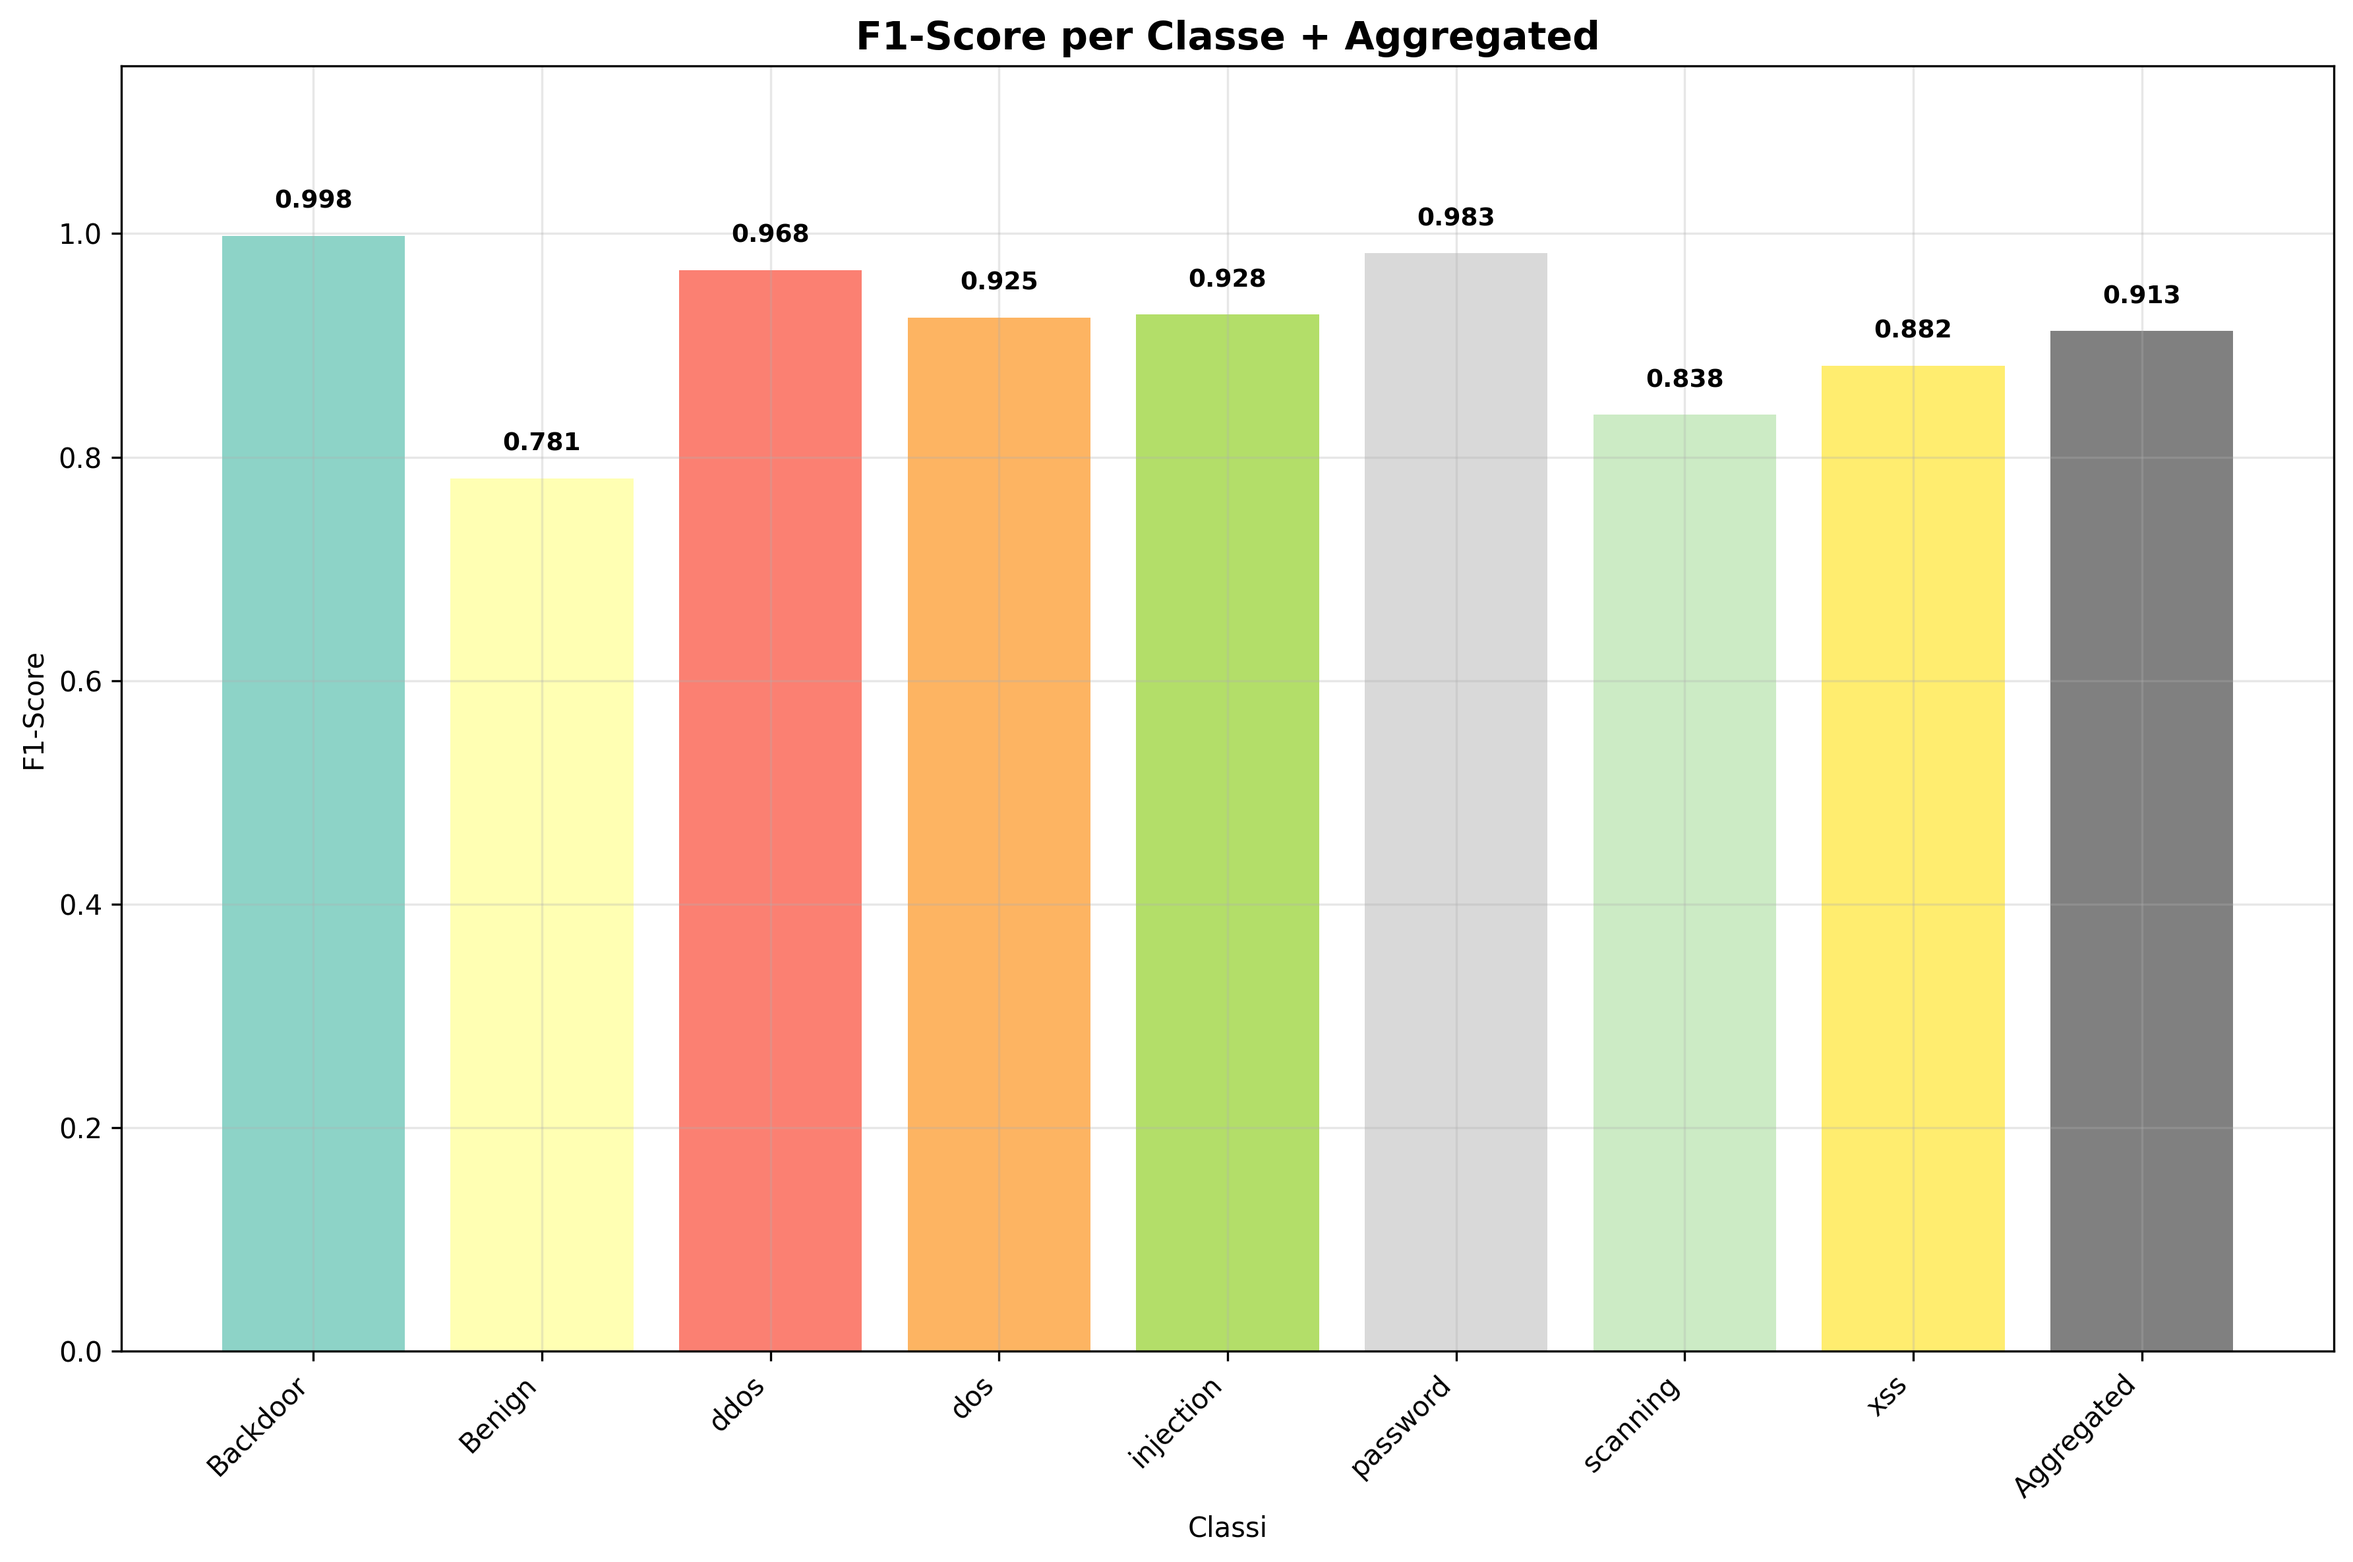
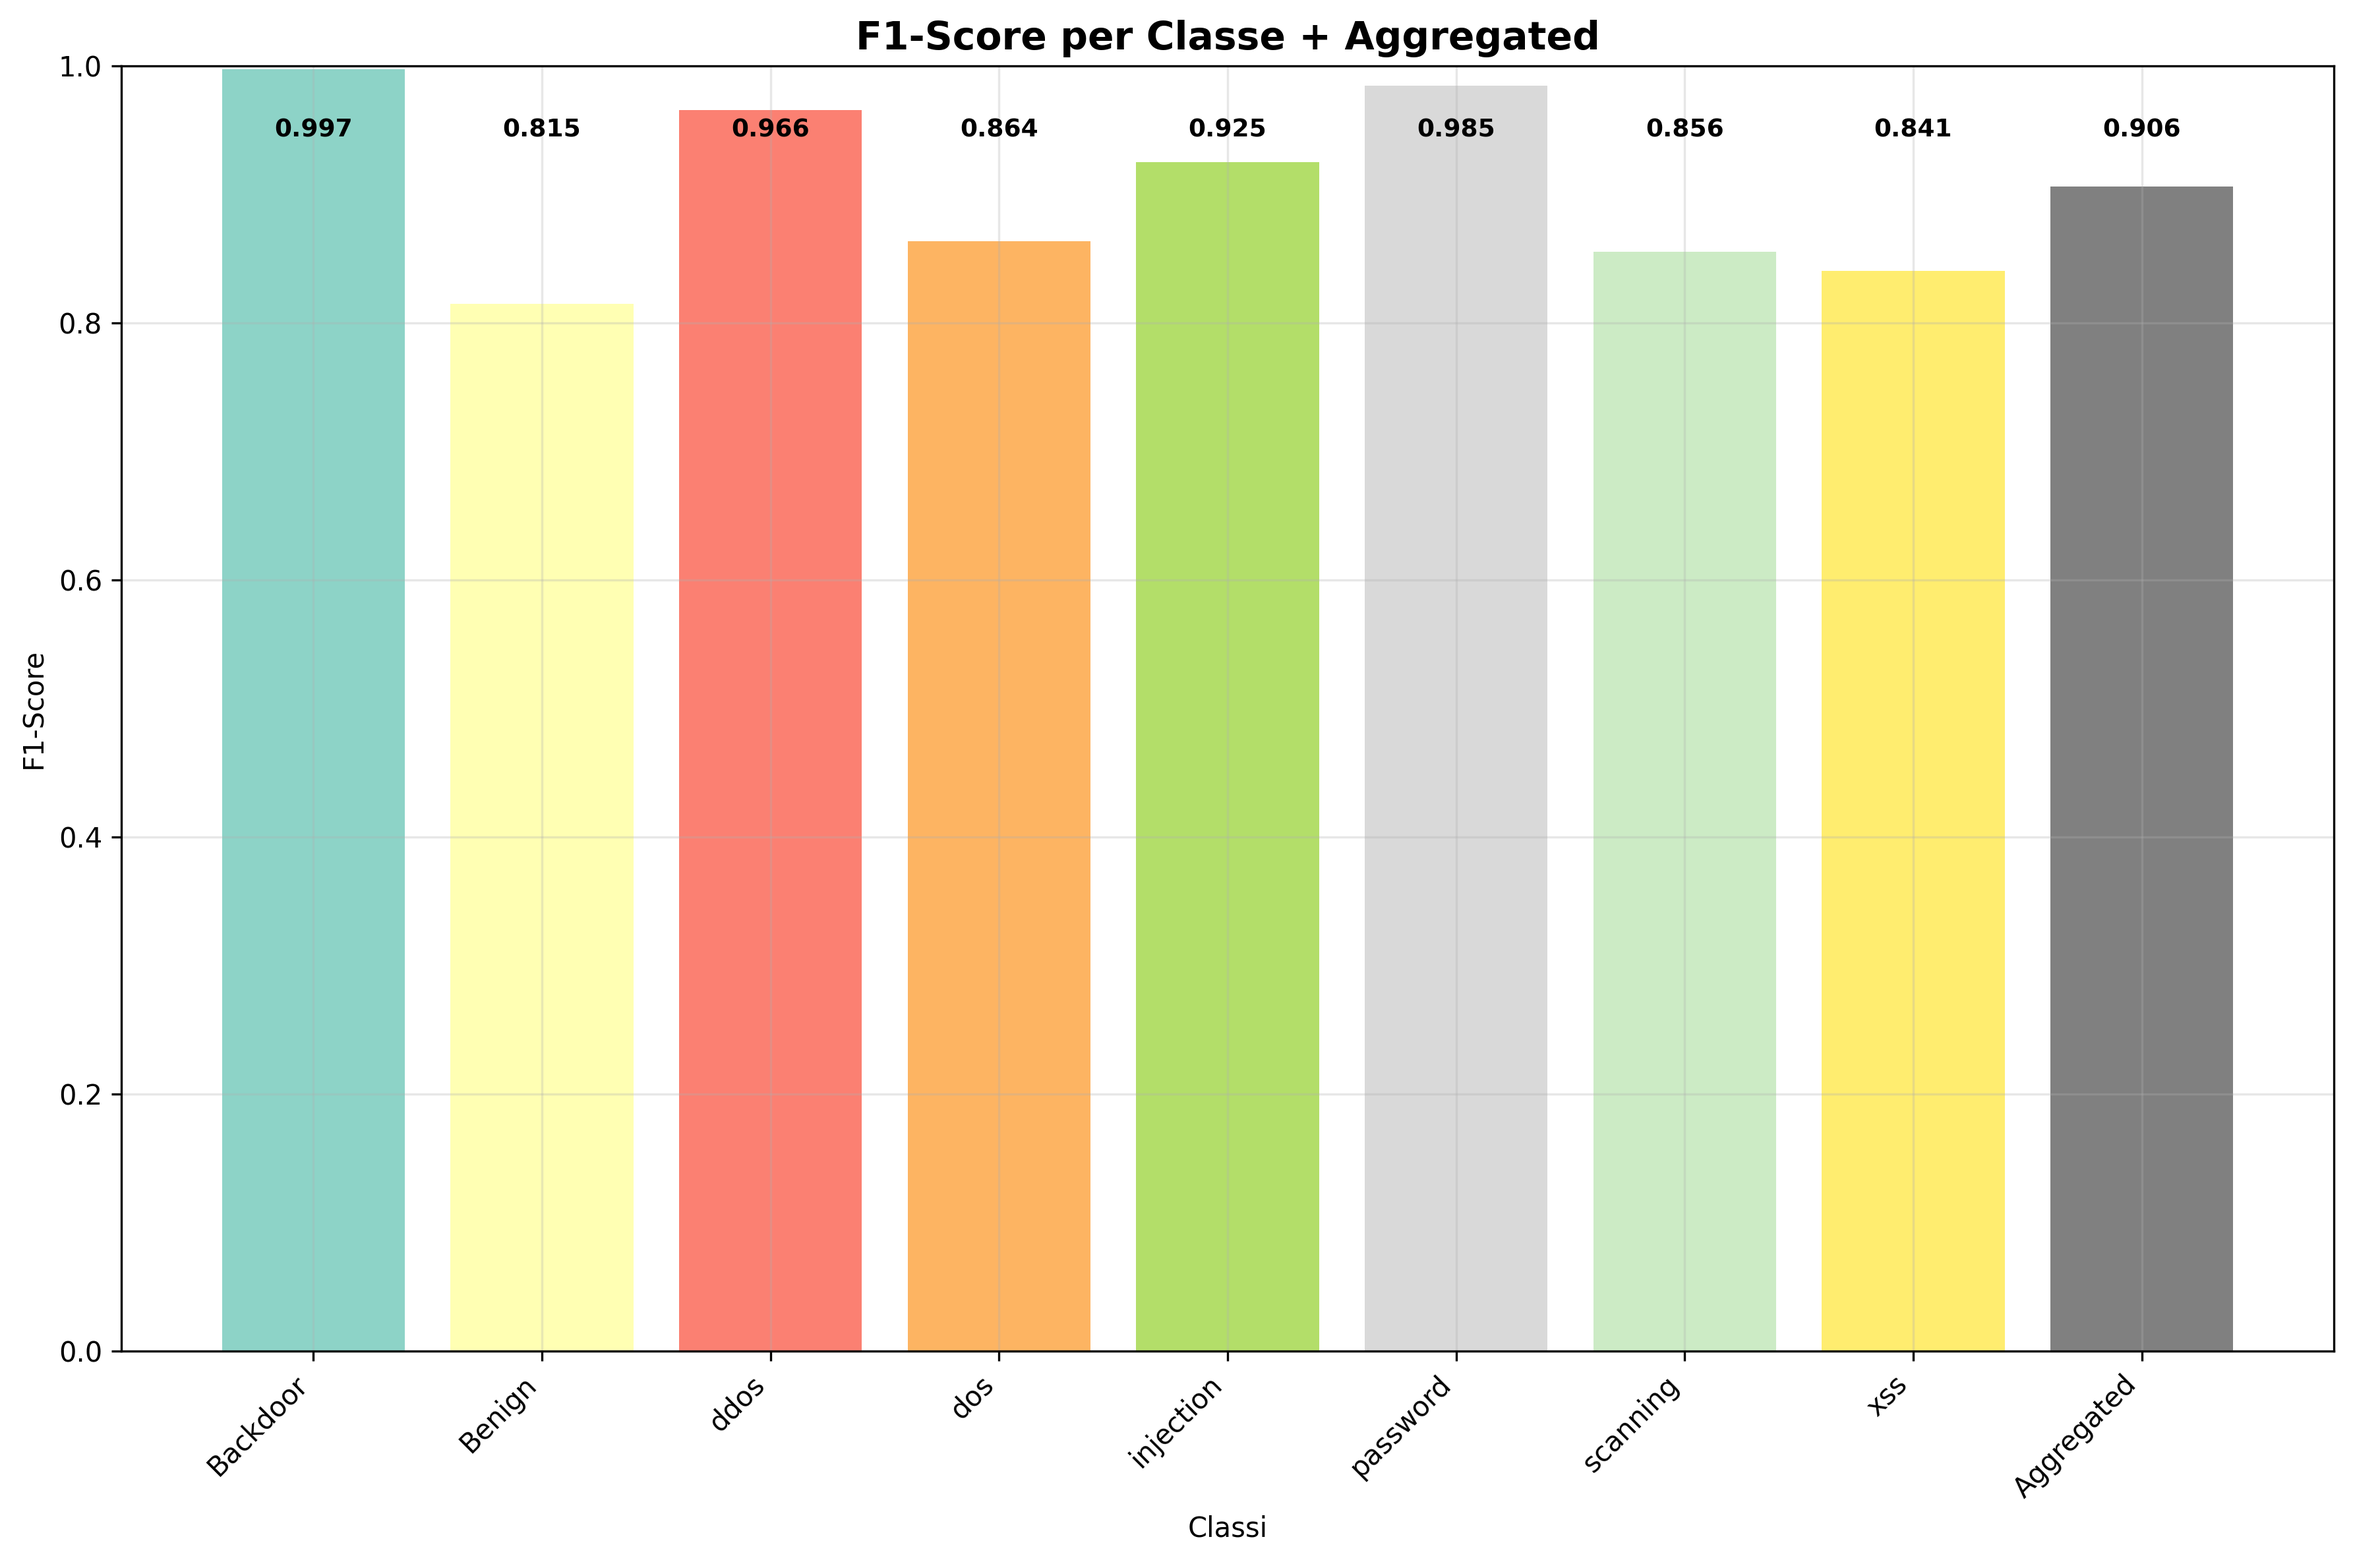
files

diff --git a/src/trainer/trainer_multiclass.py b/src/trainer/trainer_multiclass.py
@@ -67,7 +67,6 @@ class ModelTrainerMulticlass:
         return x
     
     # TRAIN
-
     def train_epoch(self, train_loader, epoch):
         """Training epoch con logging ottimizzato"""
         self.model.train()
@@ -243,9 +242,8 @@ class ModelTrainerMulticlass:
                 logger.info(f"  {self.class_names[class_idx]}: Actual={actual_count}, Predicted={predicted_count}")
         
         return avg_loss, accuracy, predictions, targets, probabilities
-    
     #########MODIFICATA LA PATIENCE PER I GRAFICI
-    def train(self, train_loader, val_loader, epochs=100, patience=2):
+    def train(self, train_loader, val_loader, epochs=100, patience=15):
         """Addestra il modello - IDENTICO AL BINARIO"""
         logger.info(f"Inizio addestramento MULTICLASS per {epochs} epochs...")
         logger.info(f"Device: {self.device}")
@@ -322,7 +320,6 @@ class ModelTrainerMulticlass:
 
         return self.model
     
-
     # PLOT
     def plot_training_history(self, save_path=None, val_predictions=None, val_targets=None):
         """
@@ -470,7 +467,7 @@ class ModelTrainerMulticlass:
         # F1 Score per classe con colori diversi + aggregated
         # Crea palette di colori diversi per ogni classe
         colors = cm.Set3(np.linspace(0, 1, len(self.class_names)))
-        
+
         # Aggiunge F1 weighted per "aggregated"
         x_pos_agg = np.arange(len(self.class_names) + 1)
         f1_with_agg = np.append(f1_per_class, f1_weighted)
@@ -480,67 +477,46 @@ class ModelTrainerMulticlass:
         colors_agg = np.vstack([colors, [0.5, 0.5, 0.5, 1.0]])
         
         bars1 = ax1.bar(x_pos_agg, f1_with_agg, color=colors_agg, alpha=1.0)
-        ax1.set_title('F1-Scores', fontsize=14, fontweight='bold')
+        ax1.set_title('F1-Score per Classe + Aggregated', fontsize=14, fontweight='bold')
         ax1.set_xlabel('Classi')
         ax1.set_ylabel('F1-Score')
         ax1.set_xticks(x_pos_agg)
         ax1.set_xticklabels(class_names_with_agg, rotation=45, ha='right')
         ax1.grid(True, alpha=0.3)
-        ax1.set_ylim(0, 1.1)  # Aumentato per spazio sopra
-        
-        # Aggiungi valori sopra le barre - posizionati sopra la barra
-        for bar, value in zip(bars1, f1_with_agg):
-            height = bar.get_height()
-            ax1.text(bar.get_x() + bar.get_width()/2., height + 0.02,
-                    f'{value:.3f}', ha='center', va='bottom', fontsize=9, fontweight='bold')
-        
+        ax1.set_ylim(0, 1)
+         
         # Precision per classe (colori diversi)
         bars2 = ax2.bar(x_pos, precision_per_class, color=colors, alpha=1.0)
-        ax2.set_title('Precision', fontsize=14, fontweight='bold')
+        ax2.set_title('Precision per Classe', fontsize=14, fontweight='bold')
         ax2.set_xlabel('Classi')
         ax2.set_ylabel('Precision')
         ax2.set_xticks(x_pos)
         ax2.set_xticklabels(self.class_names, rotation=45, ha='right')
         ax2.grid(True, alpha=0.3)
-        ax2.set_ylim(0, 1.1)  # Aumentato per spazio sopra
-        
-        for bar, value in zip(bars2, precision_per_class):
-            height = bar.get_height()
-            ax2.text(bar.get_x() + bar.get_width()/2., height + 0.02,
-                    f'{value:.3f}', ha='center', va='bottom', fontsize=9, fontweight='bold')
+        ax2.set_ylim(0, 1)
         
         # Recall per classe (colori diversi)
         bars3 = ax3.bar(x_pos, recall_per_class, color=colors, alpha=1.0)
-        ax3.set_title('Recall', fontsize=14, fontweight='bold')
+        ax3.set_title('Recall per Classe', fontsize=14, fontweight='bold')
         ax3.set_xlabel('Classi')
         ax3.set_ylabel('Recall')
         ax3.set_xticks(x_pos)
         ax3.set_xticklabels(self.class_names, rotation=45, ha='right')
         ax3.grid(True, alpha=0.3)
-        ax3.set_ylim(0, 1.1)  # Aumentato per spazio sopra
-        
-        for bar, value in zip(bars3, recall_per_class):
-            height = bar.get_height()
-            ax3.text(bar.get_x() + bar.get_width()/2., height + 0.02,
-                    f'{value:.3f}', ha='center', va='bottom', fontsize=9, fontweight='bold')
+        ax3.set_ylim(0, 1)
         
         # Support (numero campioni) per classe (colori diversi)
         bars4 = ax4.bar(x_pos, support_per_class, color=colors, alpha=1.0)
-        ax4.set_title('Support', fontsize=14, fontweight='bold')
+        ax4.set_title('Support per Classe (Numero Campioni)', fontsize=14, fontweight='bold')
         ax4.set_xlabel('Classi')
         ax4.set_ylabel('Numero Campioni')
         ax4.set_xticks(x_pos)
         ax4.set_xticklabels(self.class_names, rotation=45, ha='right')
         ax4.grid(True, alpha=0.3)
         
-        # Per support, calcola lo spazio dinamicamente perché i valori possono essere molto diversi
+        # Per support, usa il valore massimo come riferimento per posizionare i testi
         max_support = max(support_per_class)
-        ax4.set_ylim(0, max_support * 1.15)  # 15% di spazio sopra il valore massimo
-        
-        for bar, value in zip(bars4, support_per_class):
-            height = bar.get_height()
-            ax4.text(bar.get_x() + bar.get_width()/2., height + max_support * 0.02,
-                    f'{int(value)}', ha='center', va='bottom', fontsize=9, fontweight='bold')
+        ax4.set_ylim(0, max_support)
         
         plt.tight_layout()
         
@@ -652,17 +628,12 @@ class ModelTrainerMulticlass:
         colors_agg = np.vstack([colors, [0.5, 0.5, 0.5, 1.0]])
         
         bars = plt.bar(x_pos_agg, f1_with_agg, color=colors_agg, alpha=1.0)
-        plt.title('F1-Scores', fontsize=14, fontweight='bold')
+        plt.title('F1-Score per Classe + Aggregated', fontsize=14, fontweight='bold')
         plt.xlabel('Classi')
         plt.ylabel('F1-Score')
         plt.xticks(x_pos_agg, class_names_with_agg, rotation=45, ha='right')
         plt.grid(True, alpha=0.3)
-        plt.ylim(0, 1.15)  # Aumentato per spazio sopra
-        
-        for bar, value in zip(bars, f1_with_agg):
-            height = bar.get_height()
-            plt.text(bar.get_x() + bar.get_width()/2., height + 0.02,
-                    f'{value:.3f}', ha='center', va='bottom', fontsize=9, fontweight='bold')
+        plt.ylim(0, 1)
         
         plt.tight_layout()
         f1_path = base_save_path.replace('.png', '_f1_scores.png')
@@ -673,17 +644,12 @@ class ModelTrainerMulticlass:
         # 2. Precision per classe
         plt.figure(figsize=(12, 8))
         bars = plt.bar(x_pos, precision_per_class, color=colors, alpha=1.0)
-        plt.title('Precision', fontsize=14, fontweight='bold')
+        plt.title('Precision per Classe', fontsize=14, fontweight='bold')
         plt.xlabel('Classi')
         plt.ylabel('Precision')
         plt.xticks(x_pos, self.class_names, rotation=45, ha='right')
         plt.grid(True, alpha=0.3)
-        plt.ylim(0, 1.15)  # Aumentato per spazio sopra
-        
-        for bar, value in zip(bars, precision_per_class):
-            height = bar.get_height()
-            plt.text(bar.get_x() + bar.get_width()/2., height + 0.02,
-                    f'{value:.3f}', ha='center', va='bottom', fontsize=9, fontweight='bold')
+        plt.ylim(0, 1)
         
         plt.tight_layout()
         precision_path = base_save_path.replace('.png', '_precision.png')
@@ -694,17 +660,12 @@ class ModelTrainerMulticlass:
         # 3. Recall per classe
         plt.figure(figsize=(12, 8))
         bars = plt.bar(x_pos, recall_per_class, color=colors, alpha=1.0)
-        plt.title('Recall', fontsize=14, fontweight='bold')
+        plt.title('Recall per Classe', fontsize=14, fontweight='bold')
         plt.xlabel('Classi')
         plt.ylabel('Recall')
         plt.xticks(x_pos, self.class_names, rotation=45, ha='right')
         plt.grid(True, alpha=0.3)
-        plt.ylim(0, 1.15)  # Aumentato per spazio sopra
-        
-        for bar, value in zip(bars, recall_per_class):
-            height = bar.get_height()
-            plt.text(bar.get_x() + bar.get_width()/2., height + 0.02,
-                    f'{value:.3f}', ha='center', va='bottom', fontsize=9, fontweight='bold')
+        plt.ylim(0, 1)
         
         plt.tight_layout()
         recall_path = base_save_path.replace('.png', '_recall.png')
@@ -715,20 +676,15 @@ class ModelTrainerMulticlass:
         # 4. Support per classe
         plt.figure(figsize=(12, 8))
         bars = plt.bar(x_pos, support_per_class, color=colors, alpha=1.0)
-        plt.title('Support', fontsize=14, fontweight='bold')
+        plt.title('Support per Classe (Numero Campioni)', fontsize=14, fontweight='bold')
         plt.xlabel('Classi')
         plt.ylabel('Numero Campioni')
         plt.xticks(x_pos, self.class_names, rotation=45, ha='right')
         plt.grid(True, alpha=0.3)
         
-        # Per support, calcola lo spazio dinamicamente
+        # Per support, usa il valore massimo come riferimento
         max_support = max(support_per_class)
-        plt.ylim(0, max_support * 1.15)  # 15% di spazio sopra
-        
-        for bar, value in zip(bars, support_per_class):
-            height = bar.get_height()
-            plt.text(bar.get_x() + bar.get_width()/2., height + max_support * 0.02,
-                    f'{int(value)}', ha='center', va='bottom', fontsize=9, fontweight='bold')
+        plt.ylim(0, max_support)
         
         plt.tight_layout()
         support_path = base_save_path.replace('.png', '_support.png')
@@ -909,7 +865,7 @@ def main_pipeline_multiclass(model_size="small"):
 
 
         # Training
-        trained_model = trainer.train(train_loader, val_loader, epochs=100, patience=2)
+        trained_model = trainer.train(train_loader, val_loader, epochs=100, patience=15)
         
         # Plot training history
         import os
